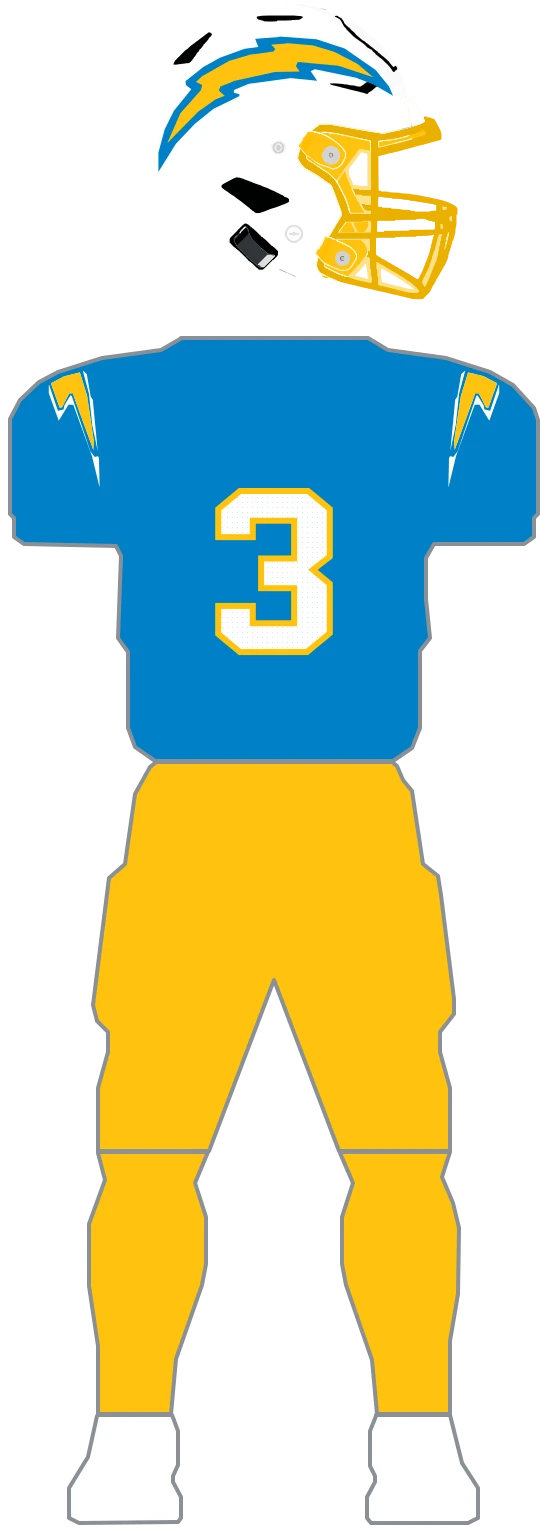
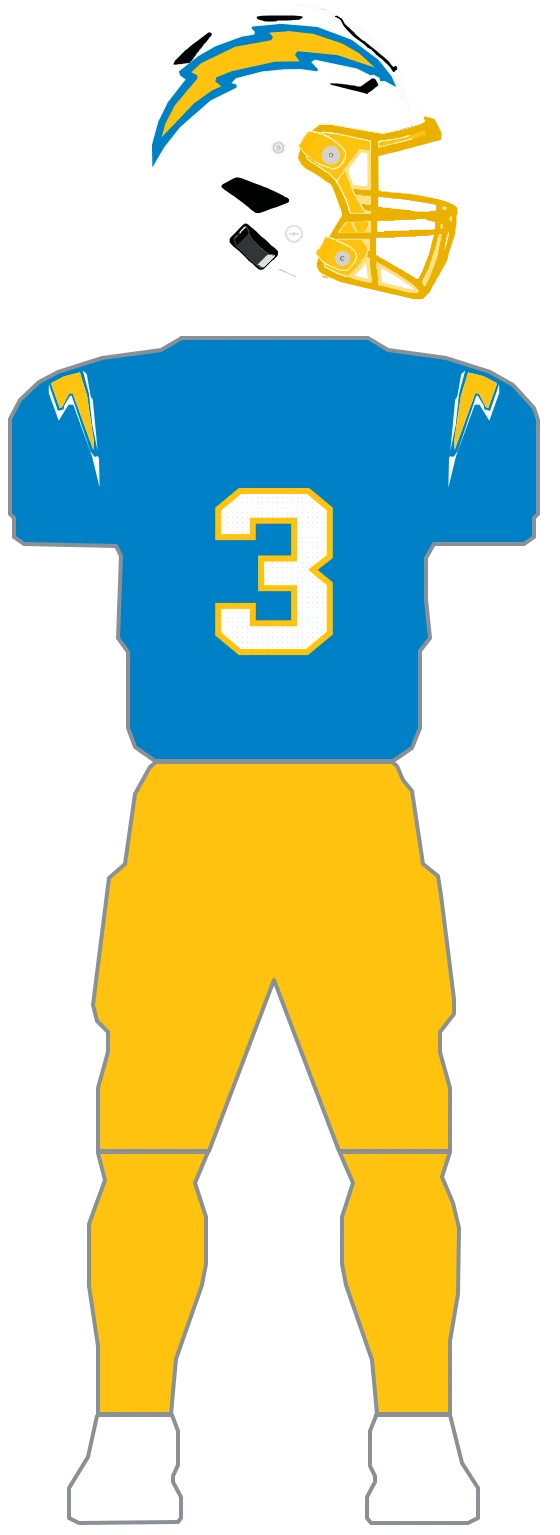
fix(uniforms): trace the Chargers shell bolt from the helmet and correct the pants (#731)
* fix(uniforms): re-author the Chargers bolts and correct the pants

The shell mark was traced off the composite's 93px helmet and read as a
lumpy blob with a soft tail. It is re-authored from Commons
`File:Los Angeles Chargers logo.svg` (public domain, and it clears the
resolution gate), with placement still measured from the GUD helmet.

The pants were unmarked. Every one of the four Chargers pant colours
carries a lightning bolt down each leg, drawn only in GUD's leg swatch
beside each figure and never on the figure itself — the same trap that
shipped Carolina without a stripe. It is a DIFFERENT bolt from the logo:
straight and symmetric, not the arched mark rotated, so it is traced from
the swatch.

The pant option lists were also wrong in both directions: they gave every
kit navy, which is worn only under the navy alternate top, and the three
that are real (gold, white, powder blue) are now what each kit lists.

Only the three Chargers -full rasters move, out of 105 regenerated.

* fix(uniforms): trace the Chargers shell bolt from the helmet, drop the pant bolt

The logo file is the club's bolt but not the decal: flat it is 2.48 aspect with
blunt tails against the shell decal's 1.71 and swept ones, so fitting it to the
decal's box thickened every stroke and landed fat and blunt. Traced from the
shell in the GUD 2025 composite instead.

The pant bolt is removed: it sits on the side seam, which a front-on mannequin
[…]

Changed region(s): [[0.2732, 0.0, 0.6982, 0.1225]]

diff --git a/lib/uniforms/teams/chargers.ts b/lib/uniforms/teams/chargers.ts
@@ -3,9 +3,10 @@
 // CHARGERS_UNIFORMS was deleted in the migration that proved parts render byte-identically (see
 // parts-parity.test.ts for the one-time gate).
 //
-// All three kits are ONE construction, and the whole uniform is two marks: a lightning bolt on each
-// shoulder cap and a much larger one on the shell, each a solid gold body inside a contrasting
-// keyline. No sleeve stripe, no collar trim, no pant stripe.
+// All three kits are ONE construction, and the uniform is bolts: one on each shoulder cap and a much
+// larger one on the shell, each a solid body inside a contrasting keyline. The pants carry one too,
+// but down the side seam where a front-on figure cannot show it, so it is not authored here. No
+// sleeve stripe and no collar trim.
 
 // White is a literal on the home kit only. Its palette is powder blue over gold with accent ===
 // secondary (ESPN supplies only two colors), so nothing resolves to the shell, the sleeve bolt's
@@ -13,10 +14,10 @@
 // `primary`, so neither needs it.
 export const CHARGERS_WHITE = '#FFFFFF';
 
-// Both marks are traced the same way and for the same reason: the keyline is traced as the union of
-// keyline AND body, with the body painted over it, so the outline stays continuous instead of
-// breaking into slivers. On the shell the two colors do NOT touch (an antialiased seam between
-// them) so the union is two disjoint components filtered by size.
+// Every mark here is traced the same way and for the same reason: the keyline is traced as the union
+// of keyline AND body with holes filled, and the body is painted over it, so the outline stays
+// continuous instead of breaking into slivers wherever the body touches it. The antialiased seam
+// between two inks matches neither colour, which is what the hole fill absorbs.
 export const CHARGERS_BOLT_KEYLINE_LEFT =
   'M103.2,415.8 L106.8,419.2 L110.7,441.6 L112.8,444.7 L117.7,496.1 L112.3,470.3 L108.9,438.5 L102.9,416.0 Z M99.8,417.2 L107.1,440.9 L113.8,486.0 L113.3,494.9 L92.7,438.2 L89.1,438.5 L82.1,452.2 L79.7,452.9 L70.9,428.3 L84.2,421.3 L99.5,417.5 Z M69.1,429.8 L77.9,455.8 L83.6,454.4 L84.4,450.3 L90.4,440.4 L91.7,440.9 L110.4,496.3 L114.6,501.9 L118.0,501.2 L119.0,503.1 L119.6,532.5 L112.0,501.2 L93.3,449.8 L88.6,449.6 L78.7,465.7 L68.8,438.2 L68.8,430.0 Z';
 export const CHARGERS_BOLT_KEYLINE_RIGHT =
@@ -25,7 +26,15 @@ export const CHARGERS_BOLT_BODY_LEFT =
   'M99.8,417.2 L107.1,440.9 L113.8,486.0 L113.3,494.9 L92.7,438.2 L89.1,438.5 L82.1,452.2 L79.7,452.9 L70.9,428.3 L84.2,421.3 L99.5,417.5 Z';
 export const CHARGERS_BOLT_BODY_RIGHT =
   'M488.2,417.2 L480.9,440.9 L474.2,486.0 L474.7,494.9 L495.3,438.2 L498.9,438.5 L505.9,452.2 L508.3,452.9 L517.1,428.3 L503.8,421.3 L488.5,417.5 Z';
+// The shell mark, traced from the shell in the 2025 GUD composite itself rather than from the
+// club's logo file. The logo IS this bolt, but flat: 2.48 aspect with short blunt tails against the
+// decal's 1.71 and long swept ones, because a decal applied around a curved shell arches far more in
+// side profile. Fitting the logo into the decal's box gets the extents right and the drawing wrong —
+// every stroke thickens with the stretch. Two shapes, this blue keyline under the gold body; the
+// real helmet's third, outer white keyline is invisible on a white shell and is not authored (a
+// navy-shell kit would need it). ONE component each, no enclosed hole, so no fill rule.
+// Regenerate with scripts/uniform-draw/chargers_bolt.py.
 export const CHARGERS_DECAL_KEYLINE_PATH =
-  'M438.7,141.1 L512.3,146.5 L568.8,165.0 L630.8,208.0 L657.1,240.3 L665.7,259.6 L625.4,236.5 L591.3,223.4 L509.2,206.5 L500.7,210.3 L513.9,229.6 L461.2,224.2 L376.8,235.7 L347.3,248.0 L347.3,253.4 L358.2,256.5 L358.2,260.3 L306.3,285.7 L269.1,315.7 L231.2,355.7 L196.3,411.8 L196.3,373.4 L208.7,327.2 L227.3,289.5 L262.1,246.5 L251.3,238.0 L250.5,230.3 L286.2,201.9 L319.5,183.4 L368.3,165.7 L396.1,161.9 L389.9,145.7 L438.0,141.9 Z M452.7,154.2 L505.3,158.8 L548.7,171.9 L594.4,195.7 L626.2,222.6 L556.5,199.6 L475.1,191.9 L471.3,200.3 L479.0,211.1 L429.4,211.9 L348.9,229.6 L320.2,241.1 L317.1,248.8 L328.8,259.6 L310.9,266.5 L276.1,291.1 L214.1,354.1 L240.5,294.2 L281.5,248.0 L283.8,238.0 L271.4,231.9 L283.8,220.3 L338.0,189.6 L379.9,177.3 L426.3,171.1 L430.2,165.7 L421.7,157.3 L451.9,155.0 Z';
+  'M437.8,115.4 L514.0,121.9 L583.0,147.7 L636.8,188.1 L662.5,220.5 L672.1,242.3 L649.6,230.2 L640.0,230.2 L638.4,223.7 L626.4,217.2 L620.7,218.8 L593.5,205.1 L509.2,187.3 L502.0,192.2 L515.6,206.7 L514.0,210.8 L480.3,205.9 L445.8,206.7 L404.1,210.8 L351.1,224.5 L342.3,234.2 L352.7,237.4 L352.7,243.1 L300.6,268.9 L239.6,322.3 L208.3,361.9 L184.2,403.1 L183.4,357.8 L196.2,311.0 L215.5,272.2 L250.8,226.9 L239.6,218.8 L237.2,210.8 L276.5,180.0 L310.2,160.7 L363.2,141.3 L388.0,137.2 L389.6,131.6 L382.4,125.1 L384.0,121.1 L437.0,116.2 Z';
 export const CHARGERS_DECAL_BOLT_PATH =
-  'M452.7,154.2 L505.3,158.8 L548.7,171.9 L594.4,195.7 L626.2,222.6 L556.5,199.6 L475.1,191.9 L471.3,200.3 L479.0,211.1 L429.4,211.9 L348.9,229.6 L320.2,241.1 L317.1,248.8 L328.8,259.6 L310.9,266.5 L276.1,291.1 L214.1,354.1 L240.5,294.2 L281.5,248.0 L283.8,238.0 L271.4,231.9 L283.8,220.3 L338.0,189.6 L379.9,177.3 L426.3,171.1 L430.2,165.7 L421.7,157.3 L451.9,155.0 Z';
+  'M454.6,129.9 L506.0,135.6 L563.8,155.0 L597.5,174.4 L629.6,203.5 L554.9,178.4 L474.7,170.4 L469.1,177.6 L478.7,190.6 L429.8,191.4 L343.9,210.0 L311.8,222.9 L310.2,231.0 L322.2,240.7 L303.8,248.7 L267.7,274.6 L202.7,342.5 L209.9,315.8 L229.1,278.6 L274.1,225.3 L274.1,218.8 L262.0,212.4 L281.3,194.6 L349.5,161.5 L421.7,148.5 L425.7,142.1 L417.7,133.2 L453.8,130.8 Z';

diff --git a/lib/uniforms/teams/chargers.parts.ts b/lib/uniforms/teams/chargers.parts.ts
@@ -2,11 +2,15 @@
 // file only restates WHICH parts each kit combines, and names every color from the team palette
 // instead of the kit row's shifting primary/secondary/accent.
 //
-// All three kits are ONE construction, and the whole uniform is two marks: a lightning bolt on each
-// shoulder cap and a much larger one on the shell, each a solid gold body inside a contrasting
-// keyline. No sleeve stripe, no collar trim, no pant stripe. The three kits combine one helmet (the
-// white shell), two jerseys (powder-blue shared by home + powder-blue, white for away), and one pair
-// of gold pants.
+// All three kits are ONE construction, and the uniform is bolts: one on each shoulder cap and a much
+// larger one on the shell, each a solid body inside a contrasting keyline. No sleeve stripe and no
+// collar trim. The three kits combine one helmet (the white shell), two jerseys (powder-blue shared
+// by home + powder-blue, white for away), and three pants — every jersey in the 2025 reference is
+// worn with gold, white and powder-blue legs.
+//
+// The pants are plain here on purpose. Los Angeles wears a bolt down each leg, but on the SIDE seam,
+// which a front-on mannequin cannot show; drawing it onto the leg's face would put a mark where the
+// real pant has none. Everything invisible from the front stays out of the figure.
 //
 // NOTE: home and powder-blue render IDENTICALLY by design — both rows store primary #0080C6 over
 // gold, differing only in accent — and the 2025 reference draws exactly one powder-blue jersey. The
@@ -88,12 +92,14 @@ const JERSEY_WHITE: UniformPart = {
   number: { fill: 'powderBlue', outline: 'gold', outlineWidth: 12 },
 };
 
-// The 2025 GUD composite shows gold, white, powder-blue, and navy pants. Gold is canonical for
-// every current Chargers kit, preserving the existing raster; the other colors remain available
-// data until the archive UI presents pant options.
+// The three legs the current kits are worn with, plus the navy the alternate needs. Plain colour —
+// see the side-seam note in the header for why no bolt is drawn on them.
 const PANTS_GOLD: UniformPart = { base: 'gold', layers: [] };
 const PANTS_WHITE: UniformPart = { base: 'white', layers: [] };
 const PANTS_POWDER: UniformPart = { base: 'powderBlue', layers: [] };
+// Navy is worn only with the navy alternate jersey and its navy shell, neither of which is in the
+// archive yet, so no kit below references this part. It stays because the pant exists and the
+// measurement is done; the kit that wears it is a separate curation ticket.
 const PANTS_NAVY: UniformPart = { base: 'navy', layers: [] };
 
 export const CHARGERS_PARTS: TeamPartsDefinition = {
@@ -118,14 +124,13 @@ export const CHARGERS_PARTS: TeamPartsDefinition = {
     powder: PANTS_POWDER,
     navy: PANTS_NAVY,
   },
+  // Canonical first, so the compiled definition and the committed raster are unchanged. The rest are
+  // the options each jersey is actually drawn with on the 2025 composite — gold, white and powder
+  // for both jerseys, and navy for neither: navy legs appear only under the navy alternate top.
   kits: {
-    home: { helmet: 'white', jersey: 'powder', pants: ['gold', 'white', 'powder', 'navy'] },
-    away: { helmet: 'white', jersey: 'white', pants: ['gold', 'white', 'powder', 'navy'] },
-    'powder-blue': {
-      helmet: 'white',
-      jersey: 'powder',
-      pants: ['gold', 'white', 'powder', 'navy'],
-    },
+    home: { helmet: 'white', jersey: 'powder', pants: ['gold', 'white', 'powder'] },
+    away: { helmet: 'white', jersey: 'white', pants: ['gold', 'white', 'powder'] },
+    'powder-blue': { helmet: 'white', jersey: 'powder', pants: ['gold', 'white', 'powder'] },
   },
 };
 

diff --git a/lib/uniforms/teams/chargers.parts.test.ts b/lib/uniforms/teams/chargers.parts.test.ts
@@ -1,0 +1,61 @@
+// Guards the two facts about Los Angeles that nothing else can catch: the shell mark is a union with
+// no fill rule (an evenodd rule would hollow out the gold body inside its own keyline), and the pant
+// options enumerated from the GUD 2025 composite, of which only the canonical entry compiles — so a
+// wrong list is invisible in every raster. The legs stay plain: the real pant's bolt is on the side
+// seam, which a front-on figure cannot show.
+import { describe, expect, it } from 'vitest';
+import { CHARGERS_PARTS } from './chargers.parts';
+
+describe('Chargers helmet parts', () => {
+  // One `it` per shell so a failure names the offending helmet, per the data-integrity convention.
+  for (const [name, part] of Object.entries(CHARGERS_PARTS.helmets)) {
+    it(`paints the ${name} shell's bolt as a keyline under a body, with no fill rule`, () => {
+      expect(part.layers.map((layer) => layer.id)).toEqual([
+        'chargers-decal-keyline',
+        'chargers-decal-bolt',
+      ]);
+      for (const layer of part.layers) {
+        expect(layer).toMatchObject({ surface: 'helmet', kind: 'fill', clip: true });
+        expect(layer).not.toHaveProperty('fillRule');
+      }
+      // Keyline and body are each one connected region, so each is a single subpath.
+      for (const layer of part.layers) expect(layer.d?.match(/Z/g)).toHaveLength(1);
+    });
+
+    it(`paints the ${name} shell's cage gold, as every figure on the composite draws it`, () => {
+      expect(part.facemask).toBe('gold');
+    });
+  }
+});
+
+describe('Chargers pants parts', () => {
+  it('offers the pant colors each kit is worn with, canonical first', () => {
+    expect(CHARGERS_PARTS.kits.home.pants).toEqual(['gold', 'white', 'powder']);
+    expect(CHARGERS_PARTS.kits.away.pants).toEqual(['gold', 'white', 'powder']);
+    expect(CHARGERS_PARTS.kits['powder-blue'].pants).toEqual(['gold', 'white', 'powder']);
+  });
+
+  it('keeps navy off every kit, since it is worn only with the navy alternate top', () => {
+    expect(CHARGERS_PARTS.pants.navy).toBeDefined();
+    for (const ref of Object.values(CHARGERS_PARTS.kits)) {
+      expect(ref.pants).not.toContain('navy');
+    }
+  });
+
+  it('keeps the flat definition pairing canonical so the committed rasters are unchanged', () => {
+    const canonical = Object.fromEntries(
+      Object.entries(CHARGERS_PARTS.kits).map(([kit, ref]) => [
+        kit,
+        Array.isArray(ref.pants) ? ref.pants[0] : ref.pants,
+      ])
+    );
+    expect(canonical).toEqual({ home: 'gold', away: 'gold', 'powder-blue': 'gold' });
+  });
+
+  // One `it` per leg so a failure names the offending pant, per the data-integrity convention.
+  for (const [name, part] of Object.entries(CHARGERS_PARTS.pants)) {
+    it(`leaves the ${name} leg plain — its bolt is on the side seam, invisible head-on`, () => {
+      expect(part.layers).toEqual([]);
+    });
+  }
+});

diff --git a/scripts/uniform-draw/chargers_bolt.py b/scripts/uniform-draw/chargers_bolt.py
@@ -1,0 +1,132 @@
+"""Regenerates the Los Angeles helmet bolt in lib/uniforms/teams/chargers.ts.
+
+    python3 scripts/uniform-draw/chargers_bolt.py            # print the two paths
+    python3 scripts/uniform-draw/chargers_bolt.py --check    # verify chargers.ts matches
+
+A CONTOUR TRACE rather than the hand-drawn geometry docs/uniform-hand-drawing.md
+produces — see that doc's "second route" section for the procedure and for what
+drawkit supplies. The bolt is a broad solid shape with no fine interior detail,
+so the doc's negative-space warning does not apply and a trace is both stable
+and closer to the reference than an anchor list would be.
+
+WHY NOT THE FETCHED MARK, which is the thing to know before touching this file.
+`File:Los Angeles Chargers logo.svg` traces clean and IS the club's bolt, and
+the first version of this script used it — placed in a box measured off the
+shell, which is the normal procedure. It reads wrong on the helmet, and the
+reason is that the flat logo and the decal are not the same drawing. The logo
+is 2.48 aspect with short blunt tails; the bolt GUD draws on the shell is 1.71
+aspect with long thin ones, because a decal applied around a curved shell
+arches far more in side profile than the flat mark does. Squeezing the logo
+into the decal's box gets the extents right and the drawing wrong: every stroke
+thickens with the stretch, so the mark lands fat and blunt where the reference
+is slender and swept. The linework here is therefore traced from the shell in
+the GUD 2025 composite itself — the same reference the placement comes from.
+
+The trade is resolution: that helmet is 93px across and its bolt 76px, so the
+crop is upsampled 8x before tracing and EPS is set against the interpolated
+edge rather than a drawn one. That is the same bargain the Rams' horn made in
+reverse (there the GUD helmet was too coarse and a larger illustration existed;
+here no larger drawing of THIS bolt exists). The reference is not committed —
+it lives in the sibling nfl-uniform-refs/ checkout.
+
+Topology, measured rather than assumed (docs step 3). The decal is two visible
+shapes, a blue keyline under a gold body, and the antialiased seam between them
+means they are NOT one 8-connected component — which is exactly why the keyline
+is traced from the filled union of the blue ring and not from the blue ink. Each
+is one component with no enclosed hole. One subpath per element, no fill rule.
+The real helmet carries a third, outer white keyline; it is invisible on a white
+shell and is not authored (a navy-shell kit would need it).
+
+Selecting the bolt out of the helmet needs care: the drawn jersey number is the
+same blue, and the facemask is a near-enough gold that a colour predicate alone
+picks up both. The bolt is found instead as the largest BLUE component, and the
+body as the one gold component that lies entirely inside its box.
+
+Placement (docs step 7) is measured from that same helmet. The shell silhouette
+cannot be measured as "everything that is not white" — the shell IS white, and
+the facemask sits inside its bounding box, which reads the shell 14% too wide.
+It is measured instead as the largest ENCLOSED white region (flood the page
+white in from the border; what stays is the shell interior). Against that box
+the bolt is left 7.6%, width 87.3%, top 8.8%, height 50.4%.
+
+The mannequin's own shell silhouette is x139-701.5, y65-637.4 in raw helmet
+space (HELMET_ART_CLIP through HELMET_ART_TRANSFORM), so those four fractions
+transfer directly to HELMET_BOX. Nothing is stretched on the way: the box is
+1.70 aspect and the traced bolt 1.71, because the reference already draws the
+mark at the proportion a shell puts it at.
+"""
+
+import sys
+from pathlib import Path
+
+sys.path.insert(0, str(Path(__file__).resolve().parent))
+
+from PIL import Image  # noqa: E402
+
+from drawkit import Box, components, fill_holes, main, mask, trace  # noqa: E402
+
+REFS = Path.home() / 'Documents/GitHubProjects/nfl-uniform-refs/chargers'
+SHEET = REFS / 'chargers-current-season-2025.png'
+MODULE = Path(__file__).resolve().parents[2] / 'lib' / 'uniforms' / 'teams' / 'chargers.ts'
+
+# The 2025 sheet's left (home) helmet, with room around it so the flood fill that
+# finds the shell has a border of page to start from.
+HELMET = (40, 30, 175, 145)
+# The bolt is 76 source pixels wide against 491 units in the placement box, so one
+# source pixel is over six units. 8x puts the contour under the renderer's
+# resolution; without it every taper stair-steps.
+UPSCALE = 8
+# Douglas-Peucker tolerance in upsampled pixels. 3.5 holds all six notches while
+# dropping the ripple LANCZOS leaves along an interpolated edge; 2.0 keeps the
+# ripple and 5.0 starts rounding the notches off.
+EPS = 3.5
+# Drop anything smaller than a real part of the mark — at 8x, debris is large.
+MIN_REGION = 2000
+
+# The sheet's two decal inks. GOLD is deliberately loose enough to take the seam
+# pixels where the body meets the keyline; a tight predicate leaves the body a
+# ring narrower than the reference draws it.
+BLUE = lambda c: abs(c[0] - 60) < 75 and abs(c[1] - 160) < 70 and abs(c[2] - 220) < 70  # noqa: E731
+GOLD = lambda c: c[0] > 200 and 140 < c[1] < 228 and c[2] < 150  # noqa: E731
+
+HELMET_BOX = Box(181.8, 115.4, 491.1, 288.5)
+
+
+def bolt_masks():
+    """(keyline, body, w, h) for the shell bolt alone, cropped to its own box."""
+    im = Image.open(SHEET).convert('RGB').crop(HELMET)
+    im = im.resize((im.width * UPSCALE, im.height * UPSCALE), Image.LANCZOS)
+    blue, w, h = mask(im, BLUE)
+    gold, _, _ = mask(im, GOLD)
+    # The largest blue region is the keyline; the jersey number's strokes are the
+    # next two and an order of magnitude smaller.
+    ring = set(components(blue, w, h, MIN_REGION)[0])
+    xs = [x for x, _ in ring]
+    ys = [y for _, y in ring]
+    x0, y0, x1, y1 = min(xs), min(ys), max(xs) + 1, max(ys) + 1
+    sw, sh = x1 - x0, y1 - y0
+    inside = lambda c: x0 <= c[0] < x1 and y0 <= c[1] < y1  # noqa: E731
+    # The facemask is the larger gold region but straddles the box; the body is the
+    # one that lies wholly within it.
+    body_cells = next(
+        set(c) for c in components(gold, w, h, MIN_REGION) if all(inside(p) for p in c)
+    )
+    keyline = [[1 if (x + x0, y + y0) in ring else 0 for x in range(sw)] for y in range(sh)]
+    body = [[1 if (x + x0, y + y0) in body_cells else 0 for x in range(sw)] for y in range(sh)]
+    return keyline, body, sw, sh
+
+
+def build():
+    keyline, body, w, h = bolt_masks()
+    return {
+        'CHARGERS_DECAL_KEYLINE_PATH': trace(
+            fill_holes(keyline, w, h), w, h, HELMET_BOX, eps=EPS, minsize=MIN_REGION
+        ),
+        'CHARGERS_DECAL_BOLT_PATH': trace(
+            body, w, h, HELMET_BOX, eps=EPS, minsize=MIN_REGION
+        ),
+    }
+
+
+if __name__ == '__main__':
+    main(build, MODULE)

diff --git a/scripts/uniform-draw/gate-check.py b/scripts/uniform-draw/gate-check.py
@@ -104,6 +104,14 @@ def at_size(im: Image.Image, kind: str) -> dict:
 # Known exceptions, each verified against the team's helmet decal in
 # lib/uniforms/teams/*.parts.ts rather than the full logo.
 NOTES = {
+    "chargers": "DONE 2026-09-08. The fetched logo traces clean and IS the club's bolt, but it "
+                "is NOT the decal: flat, it is 2.48 aspect with blunt tails against the shell "
+                "decal's 1.71 and swept ones, and fitting it to the decal's box thickens every "
+                "stroke. The shipped mark is traced from the GUD helmet itself (93px, upsampled "
+                "8x) instead. The logo's OUTER keyline is white - invisible on the white shell, "
+                "needed if the navy alternate is ever curated. The pant bolt is a different, "
+                "straight bolt and is not drawn at all: it lives on the side seam, which a "
+                "front-on figure cannot show. See scripts/uniform-draw/chargers_bolt.py.",
     "steelers": "gate pass requires >=1200px render. The helmet decal is the hypocycloid lockup's "
                 "disc + 3 lobes ONLY - no wordmark (a substitute mark was installed 2026-09-06).",
     "raiders": "gate pass requires >=1200px render; the fine 'RAIDERS' text is the fragile part, "

diff --git a/docs/uniform-hand-drawing.md b/docs/uniform-hand-drawing.md
@@ -166,18 +166,19 @@ Once the tables agree, render on the actual shell colour at both final size and 
 - `scripts/uniform-draw/drawkit.py` — everything above, as functions. Requires Pillow, and `qlmanage` for rendering on macOS. It is a manual dev tool: never imported by the app, never run in CI, deliberately not a package.json dependency.
 - `scripts/uniform-draw/texans_bull.py` — the Houston bull's actual anchor lists. The paths in the module are *emitted output*, so tuning the mark means editing anchors and re-running, not hand-editing coordinate strings.
 - `scripts/uniform-draw/helmet_base.py` — the shared shell, facemask and art transform, emitted into `lib/uniforms/helmet-art.ts`.
-- `scripts/uniform-draw/panthers_decal.py`, `rams_horn.py` — the traced marks. These take the second route below rather than the hand-drawn procedure above; each one's docstring carries its own reference, licence, measured topology and placement derivation.
+- `scripts/uniform-draw/panthers_decal.py`, `rams_horn.py`, `chargers_bolt.py` — the traced marks. These take the second route below rather than the hand-drawn procedure above; each one's docstring carries its own reference, licence, measured topology and placement derivation.
 - `scripts/uniform-draw/fetch-mark-refs.py` — resolves and downloads each team's Wikimedia mark reference into `nfl-uniform-refs/`, recording licence metadata per team. Run it before step 2.
 - `scripts/uniform-draw/gate-check.py` — measures those references against the decal resolution gate (thinnest stroke ≥ 2px; component count stable under a 0.75x downscale) and writes `nfl-uniform-refs/MARKS-GATE.md`. Its `NOTES` table carries the per-team traps found while auditing, e.g. that the Rams helmet decal is the horn alone and not the fetched ram-head logo.
 
 ### The second route: tracing
 
-Some marks cannot be hand-drawn at helmet scale — Carolina's whiskers and fangs, the Rams' horn — and for those the honest move is to trace the vector reference. That is a different procedure from §6, not a shortcut past the rest: §3's topology measurement still comes first, because the trace produces one mask per ink and you have to know whether an enclosed area is a hole or a concavity before you know how many elements the mark has.
+Some marks cannot be hand-drawn at helmet scale — Carolina's whiskers and fangs, the Rams' horn, the Chargers' bolt — and for those the honest move is to trace the vector reference. That is a different procedure from §6, not a shortcut past the rest: §3's topology measurement still comes first, because the trace produces one mask per ink and you have to know whether an enclosed area is a hole or a concavity before you know how many elements the mark has.
 
 `drawkit`'s tracing half is what a traced team script is built from — `mask` / `fill_holes` / `holes_of` / `components` / `trace` / `check_paths` / `main`. A team script supplies only the reference, the colour predicates that separate its inks, and the placement boxes; it must not carry its own copy of a flood fill or a curve simplifier. Two rules that cost real time when broken:
 
 - Trace an outline element from the UNION of it and everything it encloses, with holes filled (`fill_holes`), never from its own ink alone — the body ink touching it breaks the outline into slivers, and the antialiased seam between two inks matches neither predicate.
 - `trace(..., space=)` chooses what 0..100 means. `'image'` spreads the whole reference across the placement box; `'art'` uses the bounding box of everything traced, so a multi-component mark lands as one drawing instead of each component stretched to its own extents.
+- Check the reference's own aspect against the placement box before fitting it. A flat logo file and the decal the same club puts on a shell are usually not the same drawing — the decal arches around the shell, so it is taller and its tails sweep further. Squeezing the flat one into the decal's box gets the extents right and the drawing wrong, because the stretch thickens every stroke with it. When the two aspects differ by more than a few percent, trace the mark off the reference that shows it ON the helmet, even when that reference is the coarser of the two (the Chargers' bolt: a 93px GUD helmet upsampled 8x beat a clean vector logo).
 
 Every one of these is a manual dev tool on the same terms as `drawkit.py`: tracked because the module paths they emit are generated output that must be re-derived rather than hand-edited, but never imported by the app, never run in CI, and not a package.json dependency. They read and write `nfl-uniform-refs/`, which is a sibling reference folder and never committed.
 
